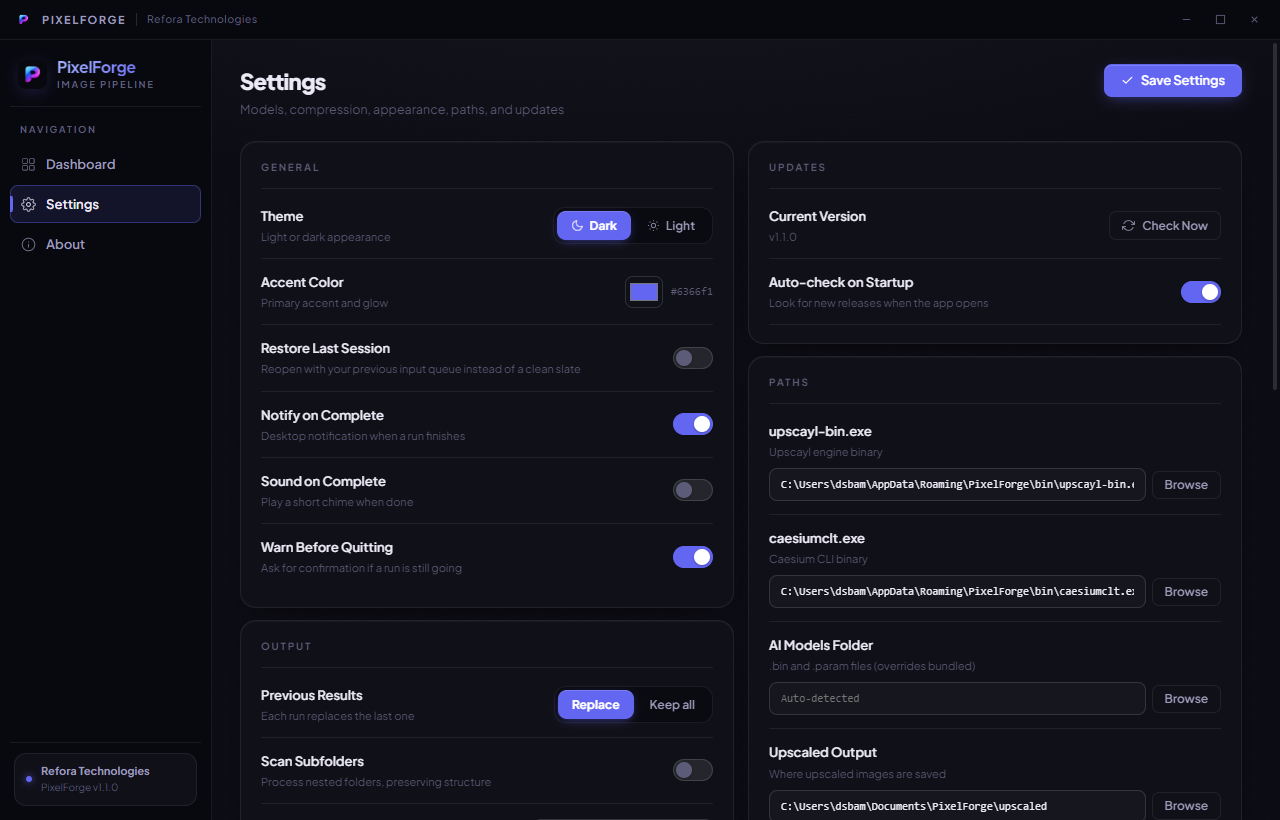
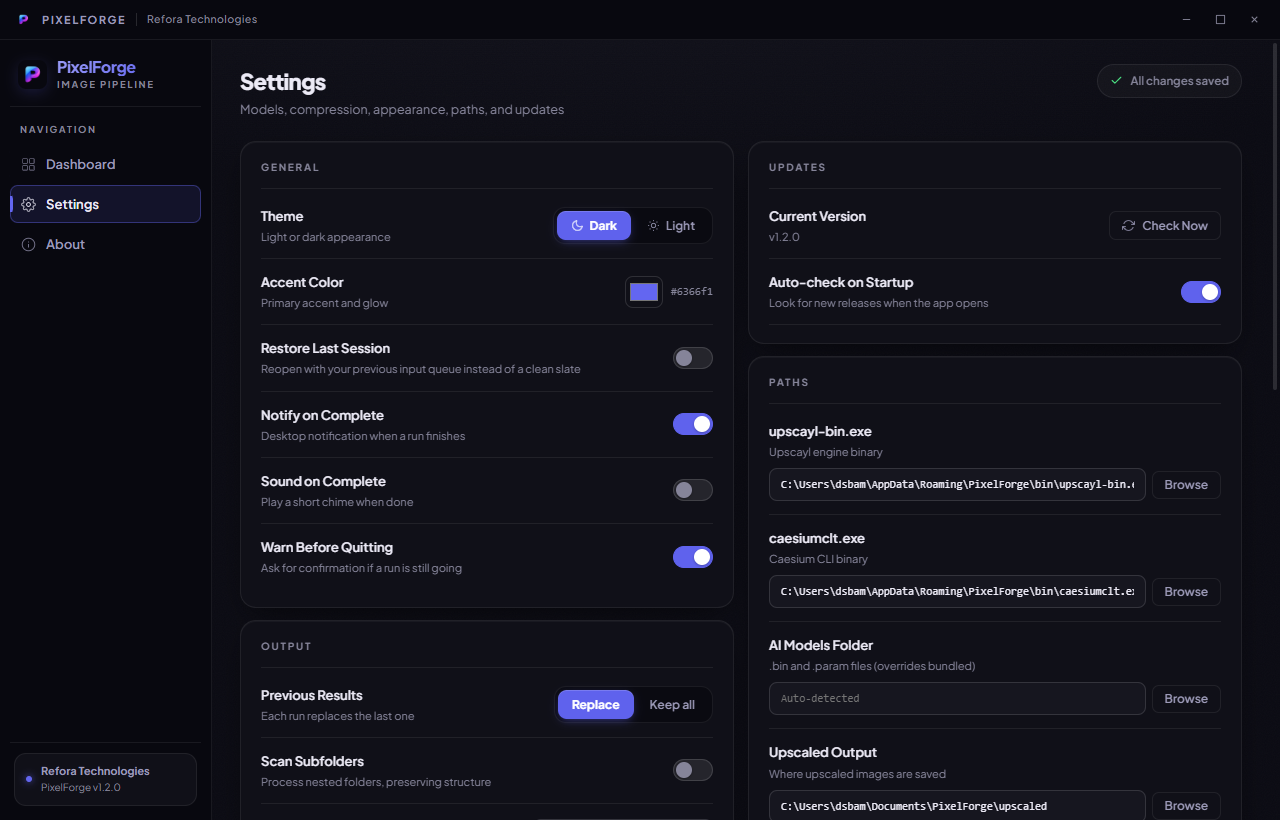
Update README and screenshots for 1.2.0

diff --git a/README.md b/README.md
@@ -30,14 +30,16 @@ All processing is 100% local. No cloud, no accounts, and no internet required af
 - **Three pipeline modes** — Upscale + Compress, Upscale only, or Compress only.
 - **7 bundled AI models** — all included in the installer, no separate download needed.
 - **GPU-accelerated** — Vulkan-powered inference via upscayl-ncnn (NVIDIA, AMD, Intel), with automatic priority for the dedicated GPU.
-- **Batch processing with live progress** — exact per-image counters, elapsed time, and ETA.
-- **Pause, resume, and cancel** — stop or hold a batch safely between images.
+- **Batch processing with live progress** — an always-visible run bar with per-image counts, ETA, and progress on the Windows taskbar.
+- **Pause, resume, and cancel** — pause takes effect within seconds; a cancelled run leaves nothing half-written.
+- **Keeps going past bad images** — a corrupt file is reported and skipped instead of stopping the whole batch.
 - **Input queue** — line up multiple folders and images in a single run, and remove any of them individually.
-- **Keep or replace previous results** — send every run to its own timestamped folder, or overwrite the last one.
+- **Keep or replace previous results** — send every run to its own timestamped folder, or replace the last run. Replace only ever removes files PixelForge created: anything else in the output folder is never touched, and results never overwrite each other.
 - **Recursive scanning** — optionally include subfolders and preserve their structure in the output.
-- **Before / after preview** — inspect results in a gallery with a side-by-side comparison slider.
+- **Before / after preview** — a comparison slider with zoom, pan and 1:1 actual-pixel view, fullscreen, and next / previous through every result.
 - **Custom output naming** — rename outputs with templates such as `{name}`, `{model}`, `{scale}`.
-- **Light and dark themes** with a customizable accent color.
+- **Light and dark themes** with a customizable accent colour — text stays readable (WCAG AA) whatever colour you pick.
+- **Settings save as you go** — paths are checked before they are saved, so a mistake is caught in Settings rather than mid-run.
 - **Keyboard shortcuts** for adding inputs, starting a run, and moving between pages.
 - **Desktop notifications** when a batch finishes.
 - **Built-in update checker** — checks GitHub for new releases and downloads them in-app.
@@ -58,7 +60,7 @@ All processing is 100% local. No cloud, no accounts, and no internet required af
 **[Download the latest release](https://github.com/refora-technologies/pixelforge/releases/latest)**
 
 - Windows 10 / 11 (64-bit)
-- Roughly 230 MB (includes all 7 AI models)
+- Roughly 275 MB (includes all 7 AI models)
 - No Upscayl installation required
 
 On first launch, PixelForge downloads two small command-line tools (the upscayl engine and Caesium CLT, about 25 MB total) and verifies them before use. The AI models are already bundled with the installer.
@@ -98,6 +100,8 @@ Full attribution and license texts are included in every installation via the EU
 
 ## Building from Source
 
+Requires Node.js 22.12 or newer.
+
 ```bash
 git clone https://github.com/refora-technologies/pixelforge.git
 cd pixelforge
@@ -114,6 +118,13 @@ npm start
 
 # Build the Windows installer (requires model files in src/models/)
 npm run build
+
+# Run the test suites (the pipeline tests use the engine binaries the app installs)
+npm test
+
+# Before publishing: walk the installer pages and verify the release through the real updater
+npm run verify:installer
+npm run verify:release
 ```
 
 ---
